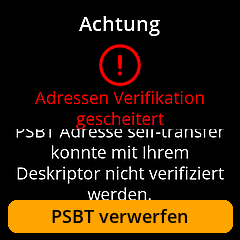
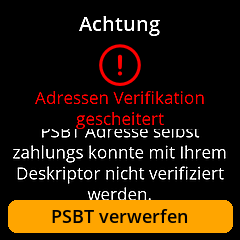
DE update

Changed region(s): [[0.0583, 0.525, 0.9625, 0.7], [0.0583, 0.525, 0.4667, 0.5833]]

diff --git a/de/README.md b/de/README.md
@@ -1,5 +1,5 @@
 # SeedSigner Screenshots: German
-## Translation progress: 98.7%
+## Translation progress: 100.0%
 
 ---
 
